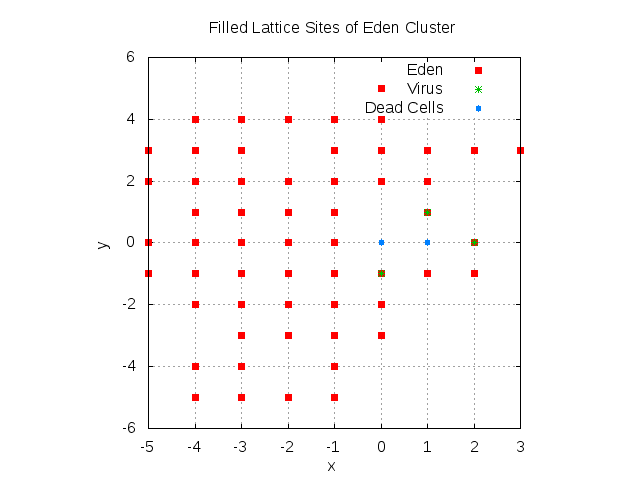
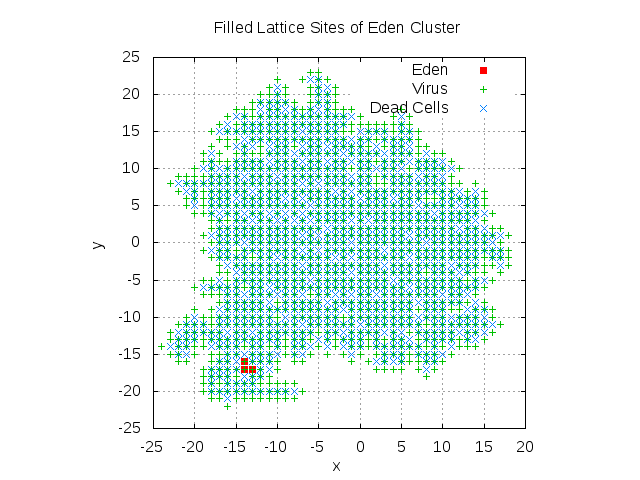
dec 5

diff --git a/main.h b/main.h
@@ -4,7 +4,7 @@
 #define EDEN_MAX 1001 // dimensions of grid for Eden
 #define STRINGLENGTH 25 // maximum number of characters in a string
 #define TRIALS 1000 // number of points for Eden
-#define MAX_TIME 3
+#define MAX_TIME 30
 #define TIME_STEP 1
 
 // *****************************************
@@ -15,78 +15,9 @@ int i; // index, usually the x axis of array
 int j; // index, usually the y axis of array
 int middle = (EDEN_MAX - 1) / 2; // middle of the grid, gets subtracted to center at origin
 
-// ******************************************
-// FUNCTIONS
-// ******************************************
-
-/*int checkifperimeter(int DLA_sites[][EDEN_MAX], int randomwalkerx, int randomwalkery, int dlaperimeterxvalues[], int dlaperimeteryvalues[]) {
-    int yesorno = 0;
-    int j;
-    while (yesorno == 0) {
-        for (j = 0; j < EDEN_MAX; j++) {
-            if (((randomwalkerx != 0) || (randomwalkery != 0)) && (randomwalkerx == dlaperimeterxvalues[j]) && (randomwalkery == dlaperimeteryvalues[j])) {
-                DLA_sites[randomwalkerx][randomwalkery] = 1;
-                printf("Making %d %d a filled site \n", randomwalkerx, randomwalkery);
-                yesorno = 1;
-            }
-        }
-    }
-    return yesorno;
-}
-
-void randomwalk(int DLA_sites[][EDEN_MAX], int randomwalkerx[], int randomwalkery[], int dlaperimeterxvalues[], int dlaperimeteryvalues[]) {
-    int i;
-    int x[MAX_ITERATIONS]; // x location for random walk
-    int y[MAX_ITERATIONS]; // y location for random walk
-
-    for (i = 0; i < MAX_ITERATIONS; i++) {
-        x[i] = 0;
-        y[i] = 0;
-        randomwalkerx[i] = 0;
-        randomwalkery[i] = 0;
-    }
-
-    // starting it at (20,20) for now
-    x[0] = 20;
-    y[0] = 20;
-
-    int foundit = 0;
-    while (foundit == 0) {
-        for (i = 0; i < MAX_ITERATIONS; i++) {
-            int j = pseudorandom(4);
-            if (j == 0) {
-                x[i] = x[i-1] + 1;
-                y[i] = y[i-1];
-            }
-            if (j == 1) {
-                x[i] = x[i-1] - 1;
-                y[i] = y[i-1];
-            }
-            if (j == 2) {
-                x[i] = x[i-1];
-                y[i] = y[i-1] - 1;
-            }
-            if (j == 3) {
-                x[i] = x[i-1];
-                y[i] = y[i-1] + 1;
-            }
-            int tempx = x[i];
-            int tempy = y[i];
-            int a = checkifperimeter(DLA_sites, tempx, tempy, dlaperimeterxvalues, dlaperimeteryvalues);
-            if (a == 1) {
-                foundit = 1;
-                printf("Found one!");
-            }
-        }
-    }
-    return;
-}
-*/
-
 // ********************************************
 // FUNCTIONS USED BY EDEN
 // ********************************************
-
 
 // initializes all points to be 0's, except a 1 at a given point
 void initializegrid(int sites[][EDEN_MAX], int xdisp, int ydisp, int whattype) {
@@ -151,6 +82,14 @@ int pseudorandom(int modulus) {
 int updateperimeters(int sites[][EDEN_MAX], int perimeterxvalues[], int perimeteryvalues[]) {
     int n = 0;
     int i, j;
+
+    for (i = 1; i < (EDEN_MAX-1); i++) {
+        for (j = 1; j < (EDEN_MAX-1); j++) {
+            if ((sites[i][j] == 2) && !(( (sites[i][j-1] == 1) || (sites[i][j+1] == 1) || (sites[i-1][j] == 1) || (sites[i+1][j] == 1) ))) {
+                sites[i][j] = 0;
+            }
+        }
+    }
 
     for (i = 1; i < (EDEN_MAX-1); i++) {
         for (j = 1; j < (EDEN_MAX-1); j++) {
@@ -226,7 +165,7 @@ void virussplit(int virus[][EDEN_MAX], int i, int j, int numberofsplit) {
     return;
 }
 
-void Avirusattack(int virus[][EDEN_MAX], int sites[][EDEN_MAX], int chanceofsplit, int numberofsplit) {
+void NoMoveVirus(int virus[][EDEN_MAX], int sites[][EDEN_MAX], int chanceofsplit, int numberofsplit) {
     /* slow down by a factor of 10, then take a given virus location and split it into two more viruses
      * this means make virus[][] be a 3
      * compare those two virus locations to the sites, and if they match, make sites be 0
@@ -249,7 +188,7 @@ void Avirusattack(int virus[][EDEN_MAX], int sites[][EDEN_MAX], int chanceofspli
     return;
 }
 
-void Bvirusattack(int virus[][EDEN_MAX], int sites[][EDEN_MAX], int chanceofsplit, int numberofsplit) {
+void MoveVirus(int virus[][EDEN_MAX], int sites[][EDEN_MAX], int chanceofsplit, int numberofsplit, int chanceofmovement) {
     int dowesplit;
     int shift;
     int i, j;
@@ -264,8 +203,7 @@ void Bvirusattack(int virus[][EDEN_MAX], int sites[][EDEN_MAX], int chanceofspli
                 }
             }
             else if ((virus[i][j] == 3) && (sites[i][j] != 1)) {
-                shift = pseudorandom(100);
-                // if 4, don't move
+                shift = pseudorandom(chanceofmovement);
                 if (shift == 0) {
                     virus[i-1][j] = 3;
                     virus[i][j] = 0;
@@ -288,13 +226,24 @@ void Bvirusattack(int virus[][EDEN_MAX], int sites[][EDEN_MAX], int chanceofspli
     return;
 }
 
-void Cvirusattack(int virus[][EDEN_MAX], int sites[][EDEN_MAX], int chanceofsplit) {
+void Cvirusattack(int virus[][EDEN_MAX], int sites[][EDEN_MAX]) {
+    int i, j;
     int dowesplit;
-
-
-
-
-
+    for (i = 0; i < EDEN_MAX; i++) {
+        for (j = 0; j < EDEN_MAX; j++) {
+             if ((virus[i][j] == 3) && (sites[i][j] == 1)) {
+                 dowesplit = pseudorandom(3);
+                 if (dowesplit == 0) {
+                     virus[i+1][j] = 3;
+                     virus[i-1][j] = 3;
+                     virus[i][j-1] = 3;
+                     virus[i][j+1] = 3;
+                     sites[i][j] = 10;
+                     virus[i][j] = 0;
+                 }
+             }
+         }
+    }
     return;
 }
 

diff --git a/main.c b/main.c
@@ -22,9 +22,9 @@ int numberofperimeters(int sites[][EDEN_MAX]);
 void massandradius(FILE *dimension_out, int sites[][EDEN_MAX], int whattype);
 
 void virussplit(int virus[][EDEN_MAX], int i, int j, int numberofsplit);
-void Avirusattack(int virus[][EDEN_MAX], int sites[][EDEN_MAX], int chanceofsplit, int numberofsplit);
-void Bvirusattack(int virus[][EDEN_MAX], int sites[][EDEN_MAX], int chanceofsplit, int numberofsplit);
-void Cvirusattack(int virus[][EDEN_MAX], int sites[][EDEN_MAX], int chanceofsplit);
+void NoMoveVirus(int virus[][EDEN_MAX], int sites[][EDEN_MAX], int chanceofsplit, int numberofsplit);
+void MoveVirus(int virus[][EDEN_MAX], int sites[][EDEN_MAX], int chanceofsplit, int numberofsplit, int chanceofmovement);
+void Cvirusattack(int virus[][EDEN_MAX], int sites[][EDEN_MAX]);
 
 
 int main(void)
@@ -98,19 +98,32 @@ int main(void)
      * we'll need a function that compares virus to sites
      * */
 
-    // eden is 1, eden per is 2, virus is 3, virus per is 4
+    // eden is 1, eden per is 2, virus is 3, dead is 10
 
     int numb;
     double dt = TIME_STEP;
     double t = 0;
     while (t < MAX_TIME) {
         // virus attack with no movement
-        //Avirusattack(virus, sites, 10, 2); // chanceofsplit, number of split
-        Bvirusattack(virus, sites, 20, 2);
-        //Cvirusattack(virus, sites);
+        //NoMoveVirus(virus, sites, 10, 2); // chanceofsplit, number of split
+
+        // virus attack with movement
+        //MoveVirus(virus, sites, 10, 2, 1000);
+        // chanceofsplit, number of split, chance of movement
+
+        int introducedtime = 10;
+        // killer virus attack
+        if (t > introducedtime) {
+            Cvirusattack(virus, sites);
+        }
 
         resetperimetervalues(perimeterxvalues, perimeteryvalues);
         numb = updateperimeters(sites, perimeterxvalues, perimeteryvalues);
+        if (numb == 0) {
+            printf("Time until death of bacteria was %lf\n", t);
+            printf("Virus was introduced at time %d\n", introducedtime);
+            break;
+        }
         updatecluster(sites, numb, perimeterxvalues, perimeteryvalues);
         printf("Current number of perimeters: %d\n", numb);
 
